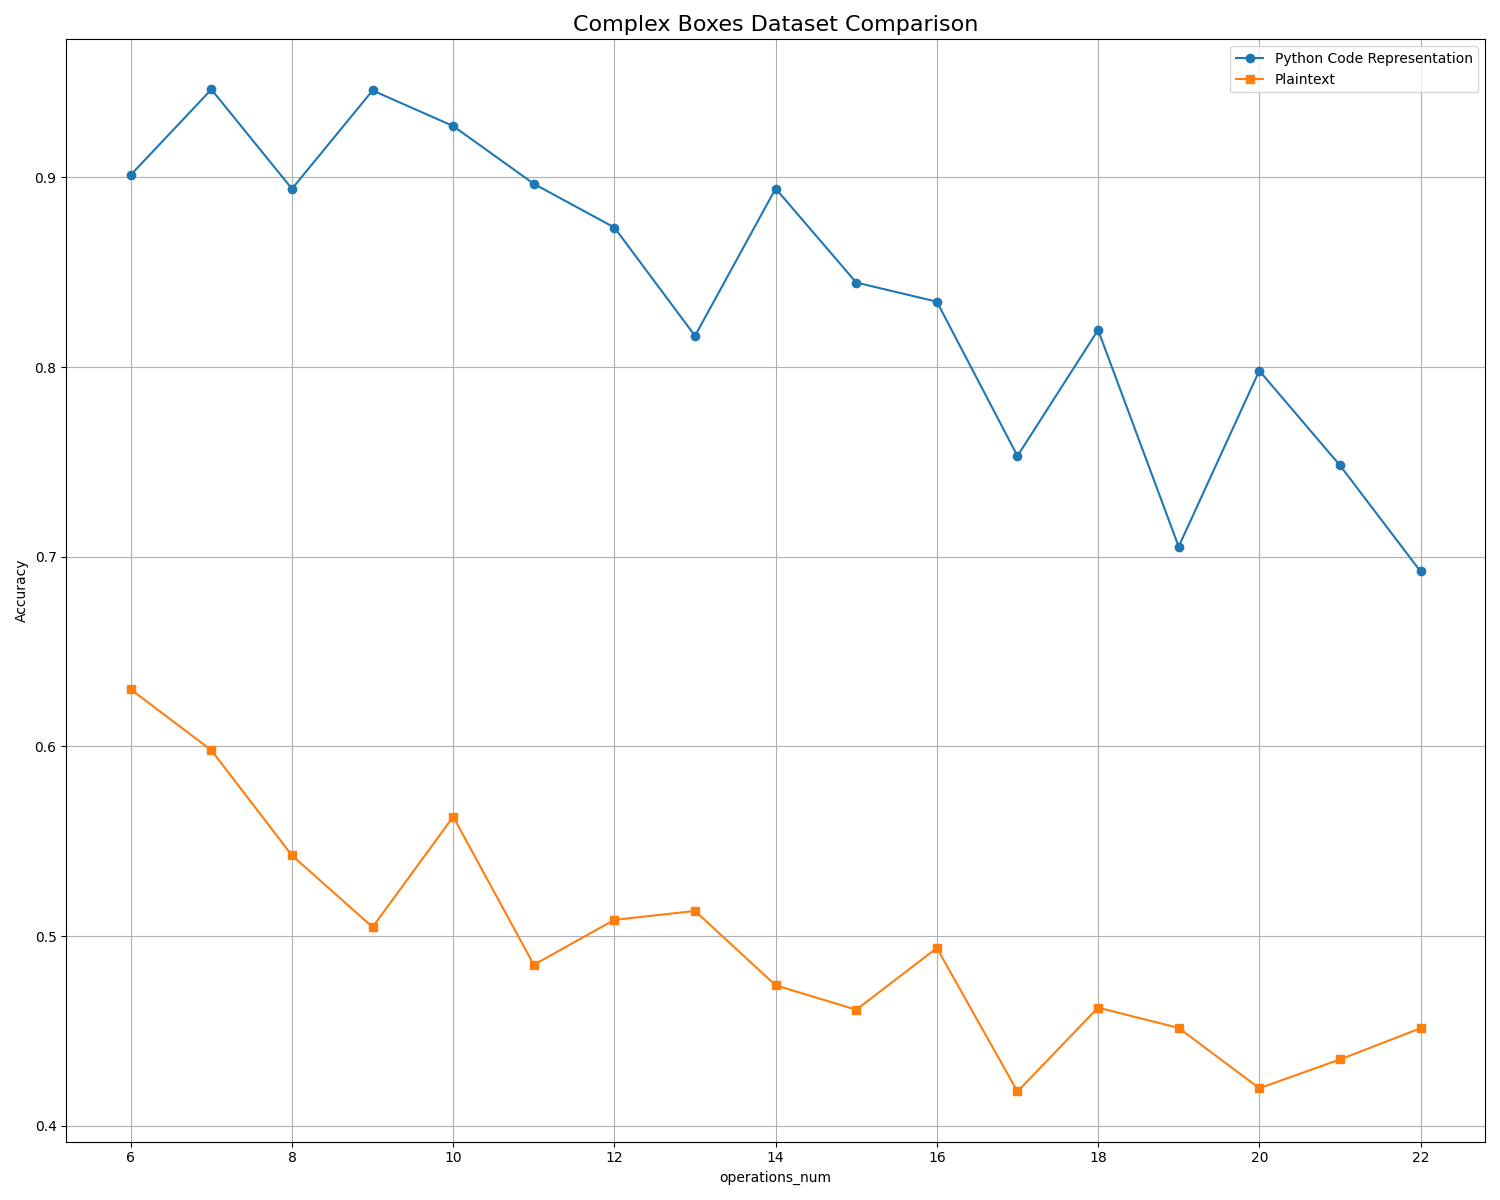
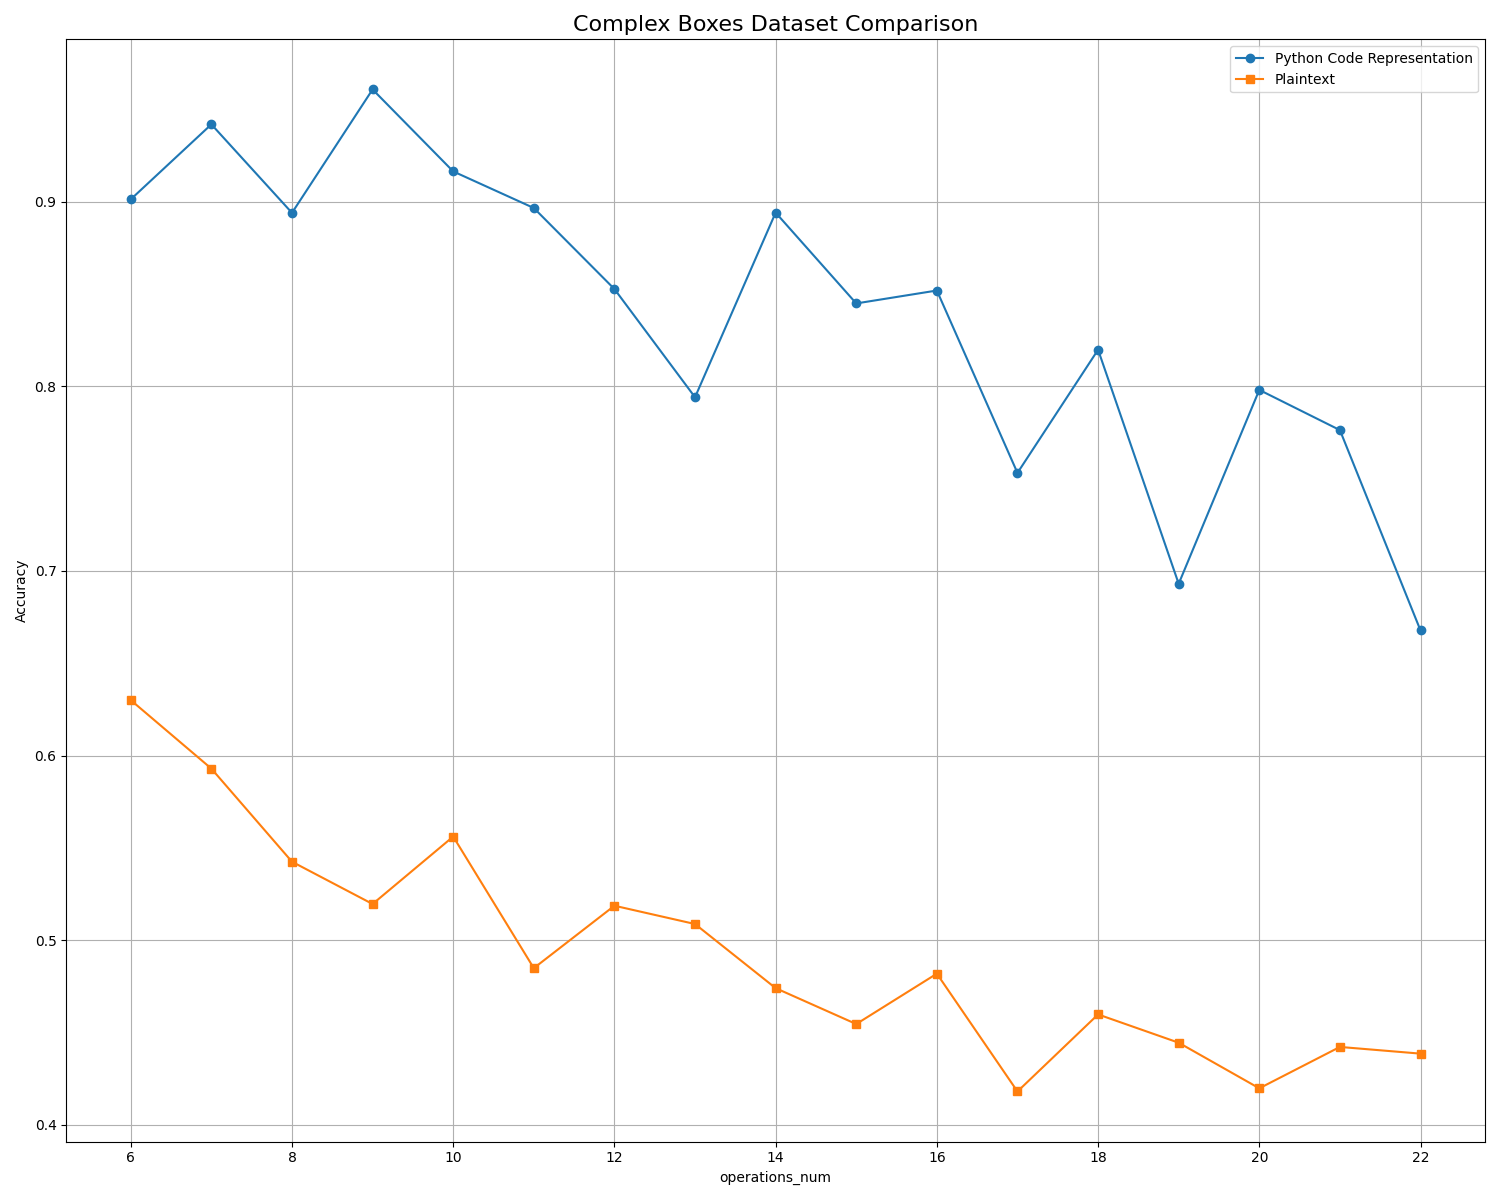
fix compare based on balanced dataset

diff --git a/boxes/multiple-plot.py b/boxes/multiple-plot.py
@@ -31,16 +31,17 @@ def multi_plotting(accuracy_dicts, methods, dataset_name):
 
 
 # Your data
-accuracy_map_1 = {9: 0.9458041958041958, 21: 0.7482078853046595, 10: 0.927027027027027, 12: 0.8735380116959064,
-                  7: 0.9463470319634704, 22: 0.6922857142857143, 16: 0.8344489067380634, 14: 0.8940783986655546,
-                  20: 0.79806598407281, 15: 0.8445353594389247, 6: 0.9012797074954296, 19: 0.7053398058252427,
-                  13: 0.8164422395464209, 18: 0.8195372750642673, 11: 0.896588486140725, 17: 0.7531106745252129,
-                  8: 0.8939617083946981}
-accuracy_map_2 = {22: 0.45140845070422536, 19: 0.4515738498789346, 17: 0.4180821917808219, 16: 0.4937142857142857,
-                  12: 0.5085679314565483, 21: 0.43495786002198605, 20: 0.4197936210131332, 7: 0.5979695431472081,
-                  11: 0.4848746758859118, 8: 0.5425257731958762, 14: 0.4740484429065744, 15: 0.46116970278044106,
-                  13: 0.51323706377858, 10: 0.5629343629343629, 6: 0.630048465266559, 9: 0.5047272727272727,
-                  18: 0.46229228802726885}
+accuracy_map_1 = {10: 0.9164086687306502, 12: 0.8527062999112689, 7: 0.9418960244648318, 22: 0.6677820267686424,
+                  14: 0.8940783986655546, 20: 0.79806598407281, 21: 0.7762947143619862, 15: 0.8449074074074074,
+                  6: 0.9012797074954296, 19: 0.693069306930693, 9: 0.9608091024020228, 18: 0.8198198198198198,
+                  13: 0.7940941739824421, 11: 0.896588486140725, 17: 0.7531106745252129, 8: 0.8939617083946981,
+                  16: 0.8519003931847968}
+
+accuracy_map_2 = {22: 0.4385758998435055, 19: 0.44449499545040944, 17: 0.4180821917808219, 16: 0.4818941504178273,
+                  12: 0.5186846038863976, 21: 0.44220665499124345, 20: 0.4197936210131332, 7: 0.592944369063772,
+                  11: 0.4848746758859118, 8: 0.5425257731958762, 14: 0.4740484429065744, 15: 0.4546023794614903,
+                  13: 0.5087719298245614, 10: 0.5561450044208665, 6: 0.630048465266559, 9: 0.5196182396606575,
+                  18: 0.45981905268759976}
 
 methods = ["Python Code Representation", "Plaintext"]
 dataset_name = "Complex Boxes Dataset"
